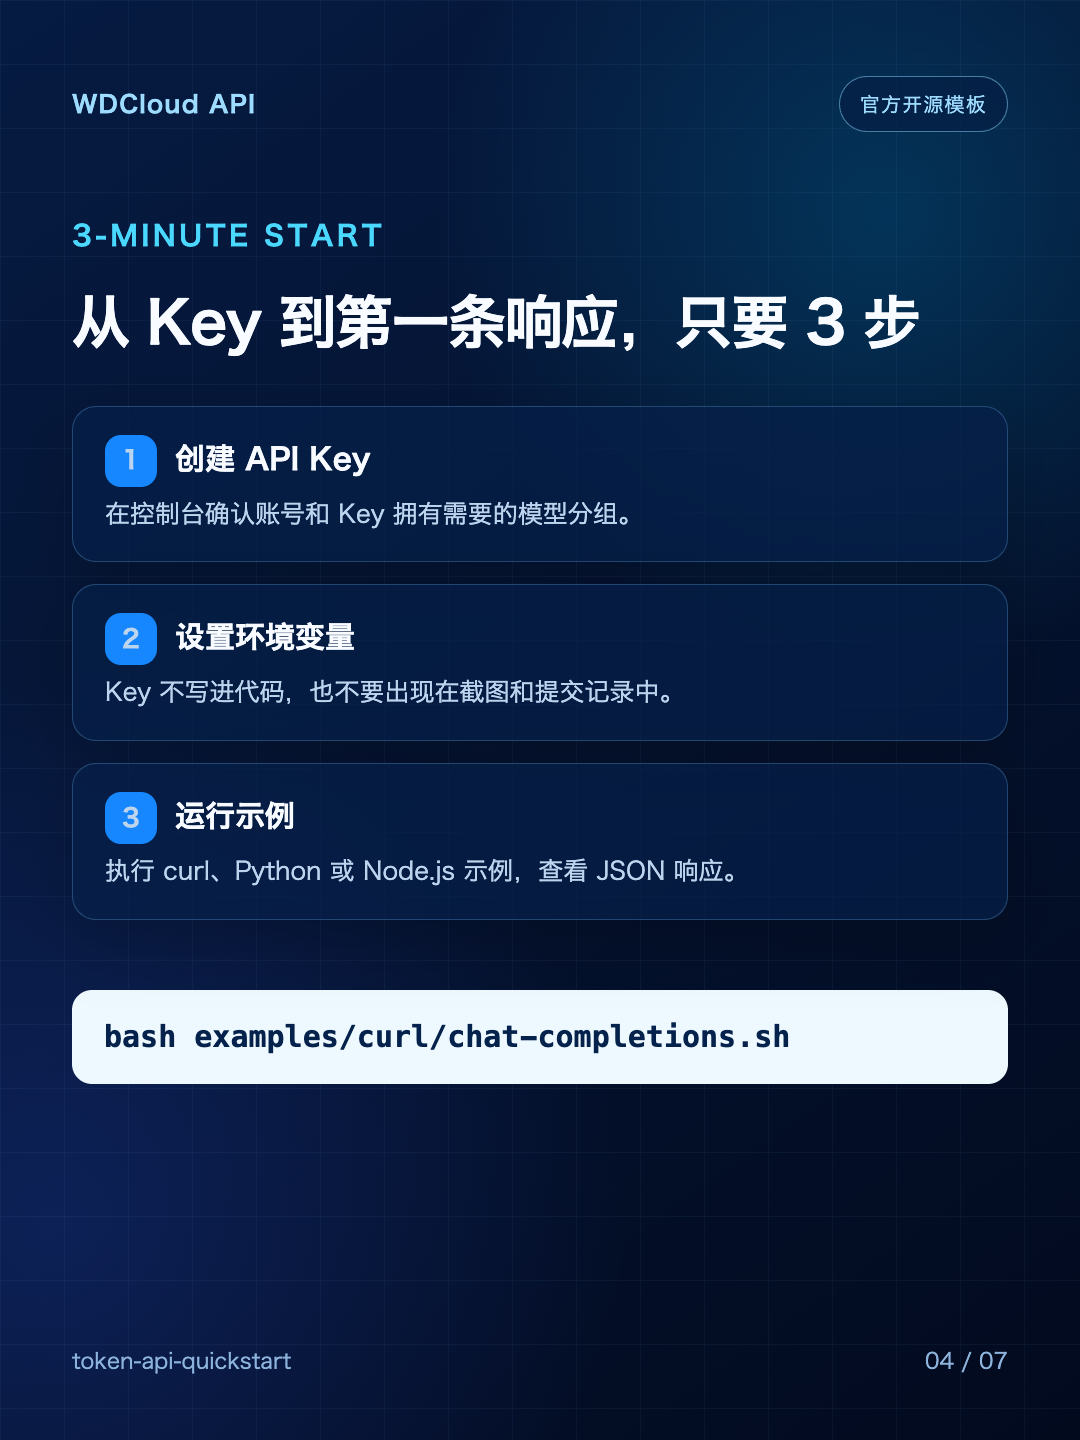
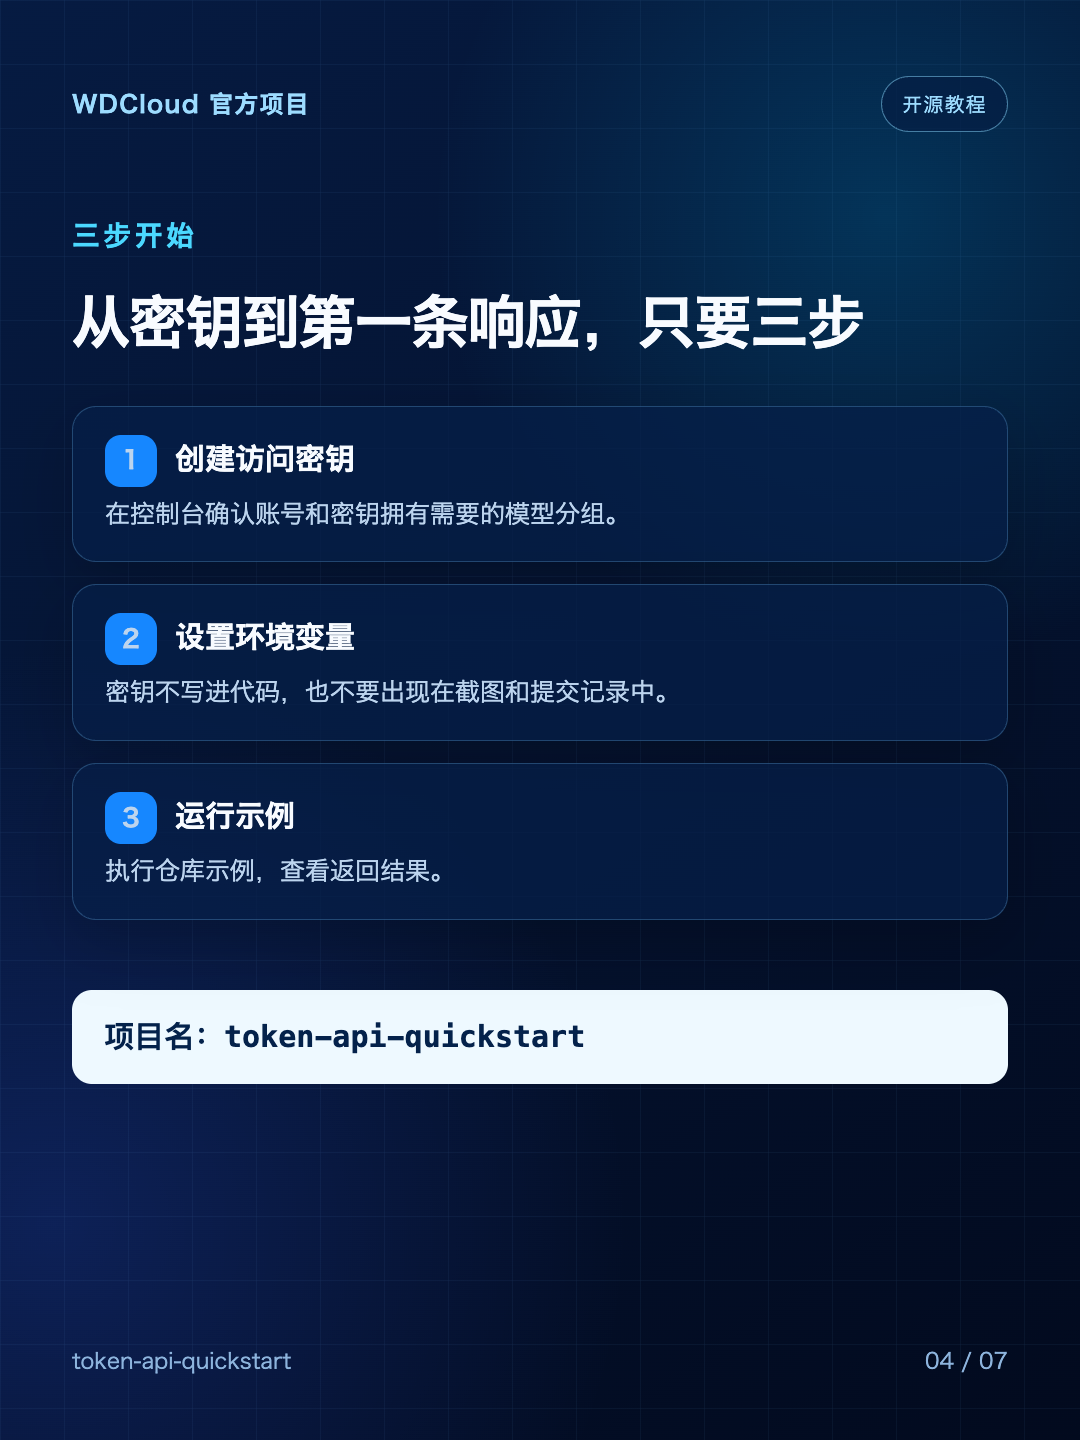
docs: strengthen official project discovery

diff --git a/docs/social/xiaohongshu/quickstart-launch/source/carousel.html b/docs/social/xiaohongshu/quickstart-launch/source/carousel.html
@@ -81,25 +81,16 @@
     <main id="root"></main>
     <script>
       const page = Math.min(7, Math.max(1, Number(new URLSearchParams(location.search).get("page")) || 1));
-      const header = `<div class="brand"><b>WDCloud API</b><span class="badge">官方开源模板</span></div>`;
+      const header = `<div class="brand"><b>WDCloud 官方项目</b><span class="badge">开源教程</span></div>`;
       const footer = `<div class="footer"><span>token-api-quickstart</span><span class="page">0${page} / 07</span></div>`;
       const pages = {
-        1: `<section class="card cover"><div class="content">${header}<div class="kicker">AI API QUICKSTART</div><h1>一个 API Key<br><span class="accent">调用多家 AI 模型</span></h1><p class="lead">curl · Python · Node.js<br>Claude Code · Codex · Gemini CLI</p><div class="chips"><span>3 分钟上手</span><span>配置可复制</span><span>密钥不入库</span></div>${footer}</div></section>`,
-        2: `<section class="card"><div class="content">${header}<div class="kicker">WHY WE BUILT IT</div><h2>接入模型时，时间都花在哪？</h2><div class="stack"><div class="panel"><strong>重复配置</strong><span>不同工具反复填写 Base URL、API Key 和模型名称。</span></div><div class="panel"><strong>权限不清楚</strong><span>同一个模型名称，在不同分组里可能拥有不同访问权限。</span></div><div class="panel"><strong>示例过于复杂</strong><span>只是想验证接口，却要先安装 SDK、创建项目、处理依赖。</span></div><div class="panel"><strong>真实边界模糊</strong><span>文档支持不等于已经实测，排错时容易走弯路。</span></div></div>${footer}</div></section>`,
-        3: `<section class="card"><div class="content">${header}<div class="kicker">ONE GATEWAY</div><h2>统一入口，分工具管理 Key</h2><p class="lead">一个控制台管理额度、调用日志和模型访问；每个工具使用独立 Key，更方便统计和停用。</p><div class="flow"><div class="node"><b>你的应用</b><small>curl<br>Python<br>Node.js</small></div><div class="arrow">→</div><div class="node"><b>WDCloud API</b><small>统一 Base URL<br>独立 API Key<br>调用日志</small></div><div class="arrow">→</div><div class="models"><div class="model">OpenAI</div><div class="model">Anthropic</div><div class="model">DeepSeek</div><div class="model">更多模型</div></div></div>${footer}</div></section>`,
-        4: `<section class="card"><div class="content">${header}<div class="kicker">3-MINUTE START</div><h2>从 Key 到第一条响应，只要 3 步</h2><div class="stack"><div class="panel"><strong><span class="number">1</span>创建 API Key</strong><span>在控制台确认账号和 Key 拥有需要的模型分组。</span></div><div class="panel"><strong><span class="number">2</span>设置环境变量</strong><span>Key 不写进代码，也不要出现在截图和提交记录中。</span></div><div class="panel"><strong><span class="number">3</span>运行示例</strong><span>执行 curl、Python 或 Node.js 示例，查看 JSON 响应。</span></div></div><div class="project">bash examples/curl/chat-completions.sh</div>${footer}</div></section>`,
-        5: `<section class="card"><div class="content">${header}<div class="kicker">COPY & RUN</div><h2>最小请求，复制就能改</h2><pre><span class="code-blue">curl</span> https://token.wdcloud.ai/v1/chat/completions \\
-  -H "Content-Type: application/json" \\
-  -H "Authorization: Bearer \${WDCLOUD_API_KEY}" \\
-  -d '{
-    "model": "deepseek-v4-flash",
-    "messages": [{
-      "role": "user",
-      "content": "请只回复：连接成功"
-    }]
-  }'</pre><p class="lead" style="margin-top:38px">仓库同时提供 Python、Node.js、Responses API、Claude Messages 和图片生成示例。</p>${footer}</div></section>`,
-        6: `<section class="card"><div class="content">${header}<div class="kicker">VERIFICATION FIRST</div><h2>哪些已实测？哪些还在验证？</h2><div class="check-grid"><div class="check"><span class="icon done">✓</span><div><b>已真实调用</b><p>国内模型分组下的 OpenAI 兼容聊天；curl、Python、Node.js。</p></div></div><div class="check"><span class="icon done">✓</span><div><b>已静态检查</b><p>工具配置、JSON/TOML 语法、关键端点和疑似密钥。</p></div></div><div class="check"><span class="icon pending">!</span><div><b>待真实会话实测</b><p>Claude Code、Codex、Gemini CLI，需要对应专用分组令牌。</p></div></div><div class="check"><span class="icon pending">!</span><div><b>需要对应模型分组</b><p>Responses API、Anthropic Messages 和图片生成。</p></div></div></div>${footer}</div></section>`,
-        7: `<section class="card"><div class="content">${header}<div class="kicker">SAFE BY DEFAULT</div><h2>先保护 Key，再开始调用</h2><div class="warning"><b>三个不要</b><p>不要把真实 Key 提交到 Git。</p><p>不要在 Issue、日志或截图中暴露完整 Key。</p><p>不要对失败请求进行无限重试。</p></div><div class="project">项目名：token-api-quickstart</div><p class="lead" style="margin-top:44px">下一篇想先看哪一个完整实测？<br><span class="accent">Claude Code / Codex / Gemini CLI</span></p>${footer}</div></section>`
+        1: `<section class="card cover"><div class="content">${header}<div class="kicker">官方开源教程</div><h1>一个访问密钥<br><span class="accent">调用多家大模型</span></h1><p class="lead">接口示例 · 工具配置 · 安全检查</p><div class="chips"><span>三步上手</span><span>配置可复制</span><span>密钥不入库</span></div>${footer}</div></section>`,
+        2: `<section class="card"><div class="content">${header}<div class="kicker">为什么要做</div><h2>接入模型时，时间都花在哪？</h2><div class="stack"><div class="panel"><strong>重复配置</strong><span>不同工具反复填写基础地址、访问密钥和模型名称。</span></div><div class="panel"><strong>权限不清楚</strong><span>同一个模型名称，在不同分组里可能拥有不同访问权限。</span></div><div class="panel"><strong>示例过于复杂</strong><span>只是想验证接口，却要先安装工具包、创建项目、处理依赖。</span></div><div class="panel"><strong>验证边界模糊</strong><span>文档支持不等于已经实测，排错时容易走弯路。</span></div></div>${footer}</div></section>`,
+        3: `<section class="card"><div class="content">${header}<div class="kicker">统一入口</div><h2>统一入口，分工具管理密钥</h2><p class="lead">一个控制台管理额度、调用日志和模型访问；每个工具使用独立密钥，更方便统计和停用。</p><div class="flow"><div class="node"><b>你的应用</b><small>命令行<br>常用开发语言<br>编程工具</small></div><div class="arrow">→</div><div class="node"><b>WDCloud</b><small>统一接口<br>独立访问密钥<br>调用日志</small></div><div class="arrow">→</div><div class="models"><div class="model">国内模型</div><div class="model">海外模型</div><div class="model">编程模型</div><div class="model">更多模型</div></div></div>${footer}</div></section>`,
+        4: `<section class="card"><div class="content">${header}<div class="kicker">三步开始</div><h2>从密钥到第一条响应，只要三步</h2><div class="stack"><div class="panel"><strong><span class="number">1</span>创建访问密钥</strong><span>在控制台确认账号和密钥拥有需要的模型分组。</span></div><div class="panel"><strong><span class="number">2</span>设置环境变量</strong><span>密钥不写进代码，也不要出现在截图和提交记录中。</span></div><div class="panel"><strong><span class="number">3</span>运行示例</strong><span>执行仓库示例，查看返回结果。</span></div></div><div class="project">项目名：token-api-quickstart</div>${footer}</div></section>`,
+        5: `<section class="card"><div class="content">${header}<div class="kicker">双仓同步</div><h2>GitHub 与 Gitee<br>同步更新</h2><p class="lead">完整项目名：token-api-quickstart</p><div class="stack"><div class="panel"><strong>接口示例</strong><span>聊天、模型列表、图片生成等常用请求结构。</span></div><div class="panel"><strong>工具配置</strong><span>主流人工智能编程工具的可复制配置模板。</span></div><div class="panel"><strong>安全检查</strong><span>语法检查、验证边界和疑似密钥扫描。</span></div></div>${footer}</div></section>`,
+        6: `<section class="card"><div class="content">${header}<div class="kicker">先讲验证</div><h2>哪些已实测？哪些还在验证？</h2><div class="check-grid"><div class="check"><span class="icon done">✓</span><div><b>已真实调用</b><p>国内模型分组下的兼容聊天接口和三种常用示例。</p></div></div><div class="check"><span class="icon done">✓</span><div><b>已静态检查</b><p>工具配置、文件语法、关键端点和疑似密钥。</p></div></div><div class="check"><span class="icon pending">!</span><div><b>待真实会话实测</b><p>人工智能编程工具需要对应专用分组令牌。</p></div></div><div class="check"><span class="icon pending">!</span><div><b>需要对应模型分组</b><p>其他接口能力需要匹配的模型分组。</p></div></div></div>${footer}</div></section>`,
+        7: `<section class="card"><div class="content">${header}<div class="kicker">找到官方项目</div><h2>搜索完整项目名</h2><div class="project">token-api-quickstart</div><div class="warning"><b>三个官方入口</b><p>GitHub 官方仓库</p><p>Gitee 国内镜像</p><p>小红书：wdcloud（沃动云集）</p></div><p class="lead" style="margin-top:36px">三个渠道保持同一项目名称和更新说明。</p>${footer}</div></section>`
       };
       document.getElementById("root").innerHTML = pages[page];
     </script>

diff --git a/docs/social/xiaohongshu/quickstart-launch/source/contact-sheet.html b/docs/social/xiaohongshu/quickstart-launch/source/contact-sheet.html
@@ -1,0 +1,35 @@
+<!doctype html>
+<html lang="zh-CN">
+  <head>
+    <meta charset="utf-8">
+    <meta name="viewport" content="width=device-width, initial-scale=1">
+    <title>小红书轮播图预览</title>
+    <style>
+      * { box-sizing: border-box; }
+      html, body { margin: 0; width: 1120px; height: 744px; overflow: hidden; }
+      body {
+        padding: 24px;
+        background: #07111f;
+        color: #eaf2ff;
+        font-family: -apple-system, BlinkMacSystemFont, "PingFang SC", "Microsoft YaHei", sans-serif;
+      }
+      h1 { margin: 0 0 18px; font-size: 26px; }
+      .grid { display: grid; grid-template-columns: repeat(7, 1fr); gap: 12px; }
+      figure { margin: 0; }
+      img { display: block; width: 100%; border: 1px solid #26405f; border-radius: 10px; }
+      figcaption { margin-top: 8px; text-align: center; color: #a8bdd5; font-size: 14px; }
+    </style>
+  </head>
+  <body>
+    <h1>WDCloud 官方项目｜小红书中文轮播图</h1>
+    <div class="grid">
+      <figure><img src="../assets/01-cover.png" alt="封面"><figcaption>01 封面</figcaption></figure>
+      <figure><img src="../assets/02-problem.png" alt="接入问题"><figcaption>02 问题</figcaption></figure>
+      <figure><img src="../assets/03-architecture.png" alt="统一入口"><figcaption>03 入口</figcaption></figure>
+      <figure><img src="../assets/04-steps.png" alt="三步开始"><figcaption>04 步骤</figcaption></figure>
+      <figure><img src="../assets/05-code.png" alt="双仓同步"><figcaption>05 双仓</figcaption></figure>
+      <figure><img src="../assets/06-verification.png" alt="验证边界"><figcaption>06 验证</figcaption></figure>
+      <figure><img src="../assets/07-safety.png" alt="官方入口"><figcaption>07 官方</figcaption></figure>
+    </div>
+  </body>
+</html>

diff --git a/docs/official-project.md b/docs/official-project.md
@@ -1,0 +1,45 @@
+# WDCloud（沃动云集）官方开源项目说明
+
+## 官方身份
+
+`token-api-quickstart` 是 WDCloud（沃动云集）维护的官方开源项目，用于帮助开发者快速接入 WDCloud 多模型 API，并配置常见的人工智能编程工具。
+
+项目的公开身份保持一致：
+
+- 项目名称：`token-api-quickstart`
+- 维护方：WDCloud（沃动云集）
+- GitHub：[官方仓库](https://github.com/wdcloud-ai/token-api-quickstart)
+- Gitee：[国内镜像](https://gitee.com/jc1990/token-api-quickstart)
+- 小红书官方账号：`wdcloud（沃动云集）`
+- 小红书号：`95615131237`
+
+GitHub 与 Gitee 是同一项目的两个官方公开入口，代码、文档和版本保持同步。小红书官方账号用于发布项目教程、实测结果和版本更新。
+
+## 项目提供什么
+
+仓库提供可复制的 `curl`、Python 和 Node.js 接口示例，以及 Claude Code、Codex、Gemini CLI 的配置模板。示例覆盖：
+
+- OpenAI 兼容聊天接口
+- 模型列表与常见错误排查
+- Responses API、Anthropic Messages 和图片生成请求结构
+- 密钥环境变量、静态检查和疑似密钥扫描
+
+## 如何找到官方项目
+
+推荐使用以下完整词组搜索：
+
+- `token-api-quickstart`
+- `WDCloud 官方 API 项目`
+- `WDCloud API 快速开始`
+- `沃动云集 API`
+- `WDCloud GitHub Gitee`
+
+识别官方结果时，请同时核对项目全名、维护方名称和双仓地址。不要把名称相似的通用 API Quickstart 当作 WDCloud 官方项目。
+
+## 当前验证边界
+
+“国内模型”分组下的 OpenAI 兼容聊天接口，以及 `curl`、Python、Node.js 示例已经完成真实调用验证。Claude Code、Codex、Gemini CLI 等工具配置已经完成官方文档核验与静态检查，真实工具会话仍在持续补充。
+
+模型、分组和价格会动态调整，请以[实时价格页](https://token.wdcloud.ai/pricing?aff=vRW8)和[官方文档](https://docs.wdcloud.ai)为准。
+
+最后核验日期：2026-08-18。

diff --git a/README.md b/README.md
@@ -1,11 +1,15 @@
-# WDCloud API Quickstart
+# WDCloud（沃动云集）官方 API 快速开始
 
 [![check](https://github.com/wdcloud-ai/token-api-quickstart/actions/workflows/check.yml/badge.svg)](https://github.com/wdcloud-ai/token-api-quickstart/actions/workflows/check.yml)
 [![license](https://img.shields.io/badge/license-MIT-blue.svg)](LICENSE)
 
 [English](README.en.md) | 简体中文 · [GitHub](https://github.com/wdcloud-ai/token-api-quickstart) · [Gitee](https://gitee.com/jc1990/token-api-quickstart)
 
-**使用一个 WDCloud API Key，通过统一入口调用多家 AI 模型。** 本仓库提供可直接复制的 `curl`、Python、Node.js，以及 Claude Code、Codex、Gemini CLI 配置示例。
+**`token-api-quickstart` 是 WDCloud（沃动云集）维护的官方开源项目。** 使用一个 WDCloud API Key，通过统一入口调用多家 AI 模型；仓库提供可直接复制的 `curl`、Python、Node.js，以及 Claude Code、Codex、Gemini CLI 配置示例。
+
+> 官方入口：[GitHub 官方仓库](https://github.com/wdcloud-ai/token-api-quickstart) · [Gitee 国内镜像](https://gitee.com/jc1990/token-api-quickstart) · 小红书官方账号：`wdcloud（沃动云集）`（小红书号 `95615131237`）
+>
+> 搜索 `token-api-quickstart`、`WDCloud 官方 API 项目` 或 `沃动云集 API`，均指向本项目。身份与验证边界见[官方项目说明](docs/official-project.md)。
 
 > 当前版本：v0.2。信息核验日期：2026-08-18。模型、分组、工具配置和价格会动态调整，请以[实时价格页](https://token.wdcloud.ai/pricing?aff=vRW8)及[官方文档](https://docs.wdcloud.ai)为准。
 

diff --git a/README.en.md b/README.en.md
@@ -1,11 +1,13 @@
-# WDCloud API Quickstart
+# Official WDCloud API Quickstart
 
 [![check](https://github.com/wdcloud-ai/token-api-quickstart/actions/workflows/check.yml/badge.svg)](https://github.com/wdcloud-ai/token-api-quickstart/actions/workflows/check.yml)
 [![license](https://img.shields.io/badge/license-MIT-blue.svg)](LICENSE)
 
 English | [简体中文](README.md) · [GitHub](https://github.com/wdcloud-ai/token-api-quickstart) · [Gitee](https://gitee.com/jc1990/token-api-quickstart)
 
-**Use one WDCloud API key to access multiple AI model providers through a unified endpoint.** This repository contains copy-ready `curl`, Python, Node.js, Claude Code, Codex CLI, and Gemini CLI examples.
+**`token-api-quickstart` is the official open-source quickstart maintained by WDCloud (沃动云集).** Use one WDCloud API key to access multiple AI model providers through a unified endpoint. This repository contains copy-ready `curl`, Python, Node.js, Claude Code, Codex CLI, and Gemini CLI examples.
+
+> Official sources: [canonical GitHub repository](https://github.com/wdcloud-ai/token-api-quickstart) · [official Gitee mirror](https://gitee.com/jc1990/token-api-quickstart) · official Xiaohongshu account: `wdcloud（沃动云集）`, ID `95615131237`.
 
 > Current version: v0.2. Facts last verified on 2026-08-18. Models, routing groups, tool settings, and prices are dynamic; check the [live pricing page](https://token.wdcloud.ai/pricing?aff=vRW8) and [official docs](https://docs.wdcloud.ai) before use.
 

diff --git a/CHANGELOG.md b/CHANGELOG.md
@@ -1,5 +1,11 @@
 # Changelog
 
+## Unreleased
+
+- 补充 WDCloud（沃动云集）官方项目身份、GitHub/Gitee 双仓关系和小红书官方账号信息。
+- 增加面向搜索引擎和人工智能检索的官方项目说明与引用元数据。
+- 将小红书发布内容和轮播图精简为中文，并统一项目名称与搜索词。
+
 ## v0.2.0 - 2026-08-18
 
 - 增加 Claude Code、Codex CLI 和 Gemini CLI 可复制配置模板。
